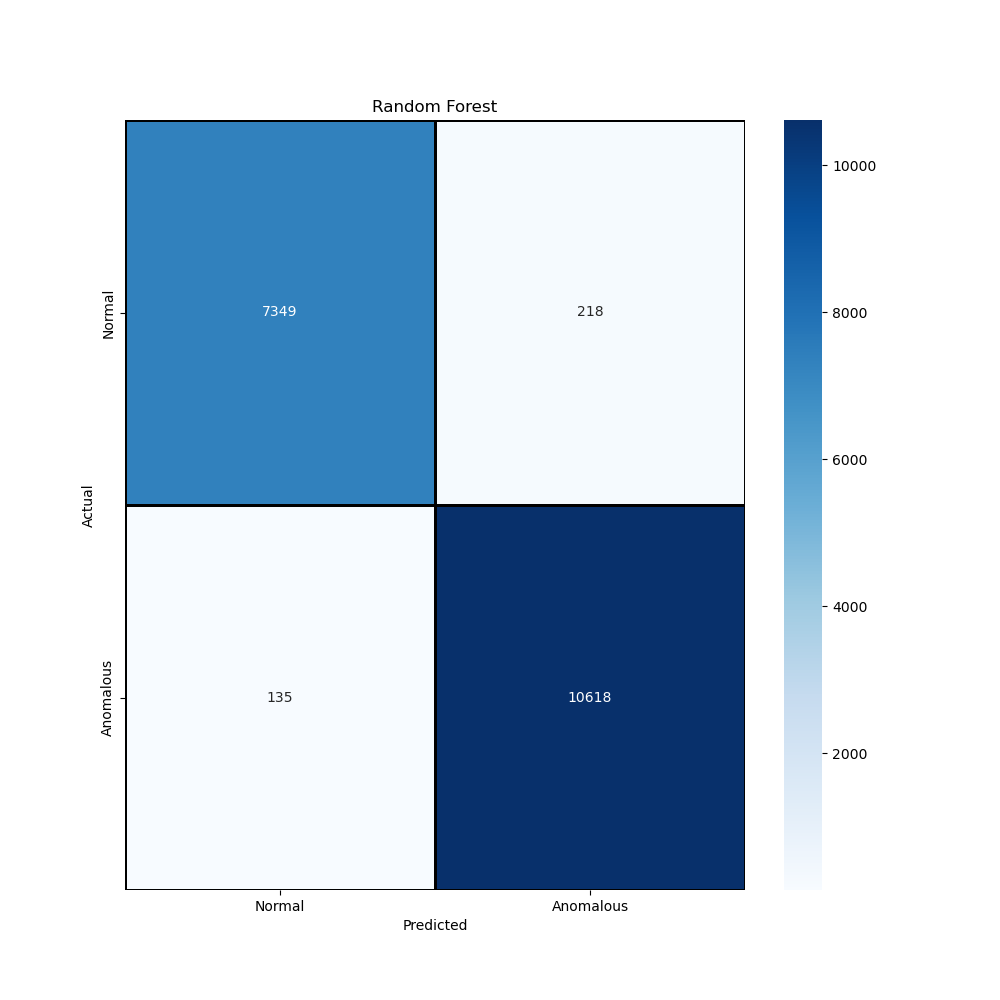
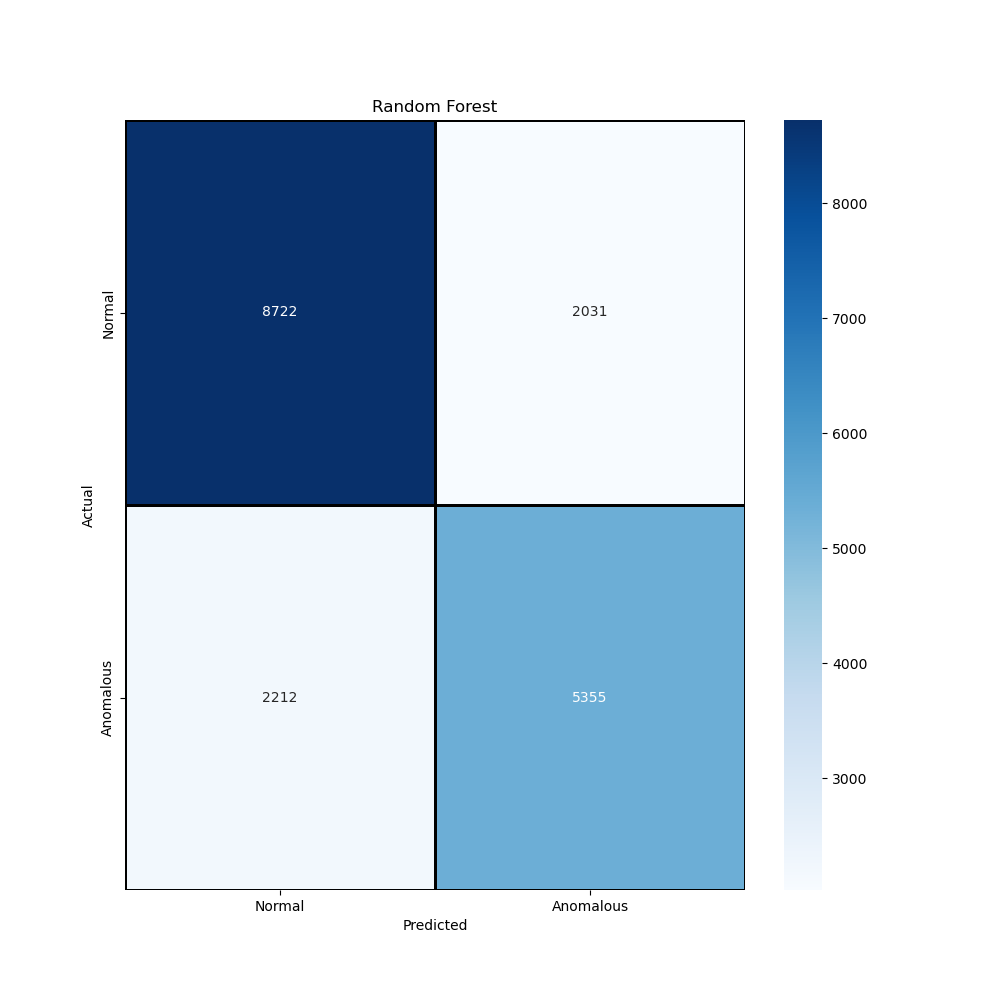
debug preprocessor

diff --git a/src/features/build_features.py b/src/features/build_features.py
@@ -50,7 +50,6 @@ def build_features(data):
     pd.Series: The target variable.
     """
     feature_names = [
-        "Unnamed: 0",
         "Method",
         "User-Agent",
         "Pragma",
@@ -65,27 +64,25 @@ def build_features(data):
         "connection",
         "lenght",
         "content",
-        "classification",
         "URL",
     ]
 
     X = data[feature_names]
-    X = X.rename(columns={"Unnamed: 0": "Class", "lenght": "content_length"})
+    X = X.rename(columns={"lenght": "content_length"})
 
     selected_features = [
-        "Class",
+
         "Method",
         "host",
         "cookie",
         "Accept",
         "content_length",
         "content",
-        "classification",
         "URL",
     ]
 
+    y = data["classification"]
     X = X[selected_features]
-    y = X["Class"]
 
     X["content_length"] = (
         X["content_length"].astype(str).str.extract(r"(\d+)").fillna(0).astype(int)
@@ -140,7 +137,7 @@ def build_features(data):
 
     # Encode categorical features
     categorical_features = ["Method", "host", "cookie", "Accept", "content",
-                            "URL", "classification"]
+                            "URL"]
     le = LabelEncoder()
     for feature in categorical_features:
         X[feature] = le.fit_transform(X[feature].astype(str))
@@ -168,4 +165,4 @@ def build_features(data):
 
     print(f"Features generated: {numeric_features + categorical_features}")
 
-    return X.drop(columns=["Class"]), y, numeric_features, categorical_features
+    return X, y, numeric_features, categorical_features

diff --git a/predict_mlflow.py b/predict_mlflow.py
@@ -20,7 +20,7 @@ else:
     print("MLflow was not automatically discovered, a tracking URI must be provided manually.")
 
 MODEL_NAME = "random_forest_detection"
-VERSION = 2
+VERSION = 3
 
 model = mlflow.pyfunc.load_model(
     model_uri=f"models:/{MODEL_NAME}/{VERSION}"
@@ -49,11 +49,10 @@ rows_for_prediction = csic_data.head(5)
 print("Columns in rows_for_prediction: ", rows_for_prediction.columns)
 
 # Supprimer la colonne 'classification' pour les requêtes JSON
-rows_for_print = rows_for_prediction.drop(columns=['classification'])
+rows_for_print = rows_for_prediction.drop(columns=['classification', 'Unnamed: 0'])
 
 # Renommer les colonnes uniquement pour l'impression JSON
 column_mapping = {
-    'Unnamed: 0': 'Unnamed_0',
     'User-Agent': 'User_Agent',
     'Cache-Control': 'Cache_Control',
     'Accept-encoding': 'Accept_encoding',
@@ -102,7 +101,7 @@ try:
     urls = rows_for_prediction['URL'].tolist()
     for i, prediction in enumerate(predictions):
         url = urls[i].split(" ")[0]  # Extraire l'URL avant " HTTP/1.1"
-        if prediction == 1:
+        if prediction == 0:
             print("Requête anormale")
             print(url)
         else:

diff --git a/src/features/preprocessing.py b/src/features/preprocessing.py
@@ -18,7 +18,6 @@ def filtrage_colonnes(data):
     pd.DataFrame: Filtered and renamed columns.
     """
     feature_names = [
-        "Unnamed: 0",
         "Method",
         "User-Agent",
         "Pragma",
@@ -33,11 +32,10 @@ def filtrage_colonnes(data):
         "connection",
         "lenght",
         "content",
-        "classification",
         "URL",
     ]
     X = data[feature_names]
-    X = X.rename(columns={"Unnamed: 0": "Class", "lenght": "content_length"})
+    X = X.rename(columns={"lenght": "content_length"})
     return X
 
 
@@ -61,7 +59,6 @@ def build_features(data):
         "Accept",
         "content_length",
         "content",
-        "classification",
         "URL",
     ]
     return X[selected_features], data["target_column"]

diff --git a/main.py b/main.py
@@ -72,6 +72,11 @@ print_with_padding("READ CSV")
 
 csic_data = load_csv_data(CSIC_FILEPATH)
 
+# Supprimer la colonne 'Unnamed: 0'
+csic_data = csic_data.drop(columns=['Unnamed: 0'], errors='ignore')
+
+print("Colonnes après suppression de 'Unnamed: 0':")
+print(csic_data.columns)
 # print("Number of samples:", csic_data.shape[0])
 # print("Number of features:", csic_data.shape[1])
 # Data Visualization

diff --git a/src/models/ml_models/random_forest.py b/src/models/ml_models/random_forest.py
@@ -202,7 +202,7 @@ def model_random_forest(data, params):
     ])
     
     joblib.dump(complete_pipeline, 'complete_preprocessor_pipeline.pkl')
-
+    os.system(f"mc cp complete_preprocessor_pipeline.pkl s3/mthomassin/preprocessor/complete_preprocessor_pipeline.pkl")
 
 
     # Split the dataset into training and testing sets
